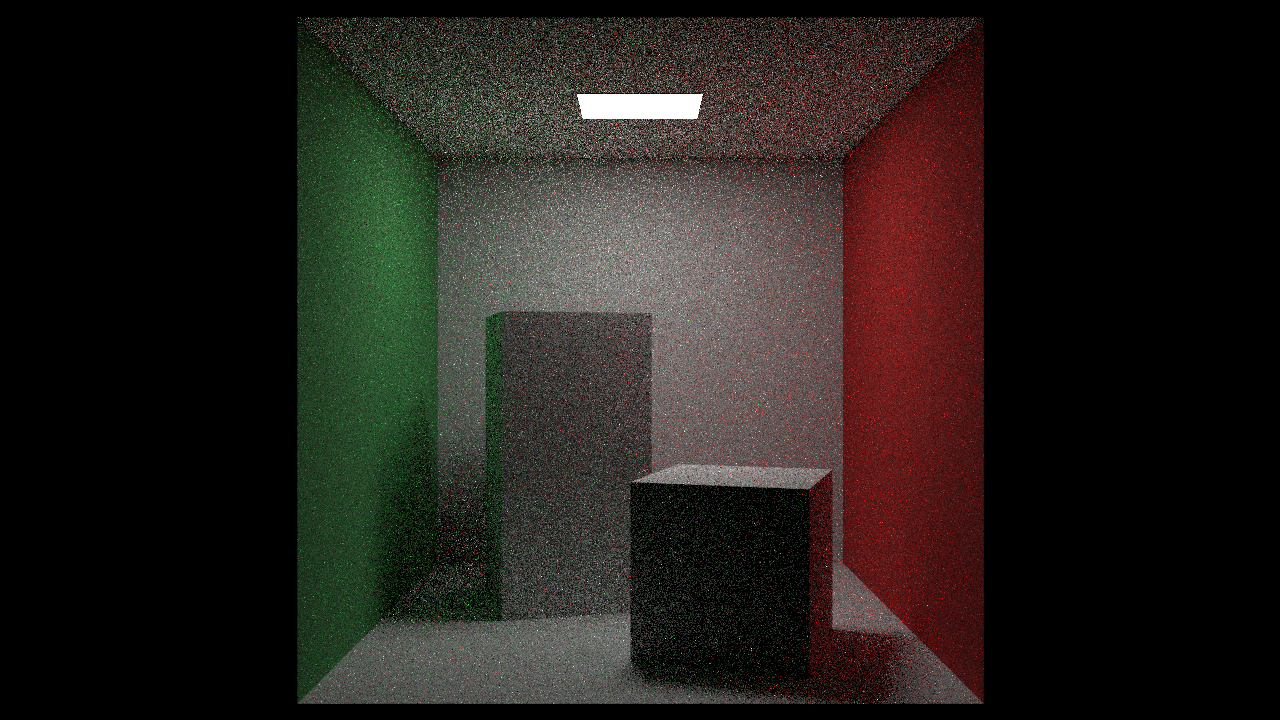
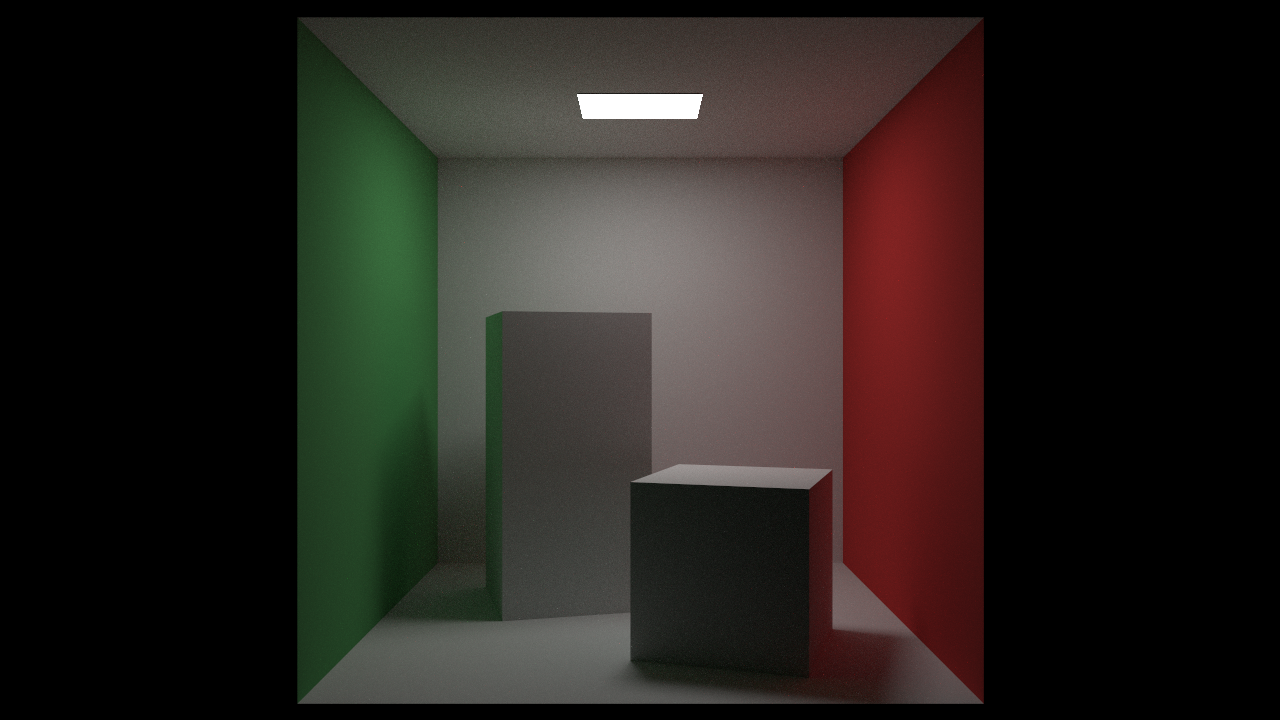
feat: mixture_pdf, 1000 samples per pixel

Changed region(s): [[0.2188, 0.0, 0.7812, 0.9778]]

diff --git a/utils/render_scene.cpp b/utils/render_scene.cpp
@@ -1,6 +1,7 @@
 #include "core/version.h"
 
 #include "common/common.h"
+#include "common/hittable.h"
 #include "common/hittable_list.h"
 #include "common/constant_medium.h"
 #include "common/quad.h"
@@ -350,7 +351,7 @@ void render_cornell_box(const std::string& output_image_format) {
     Camera cam;
     cam.aspect_ratio = 16.0 / 9.0;
     cam.image_width = 1280;
-    cam.samples_per_pixel = 10;
+    cam.samples_per_pixel = 1000;
     cam.max_depth = 50;
     cam.background = {0.0, 0.0, 0.0};
 
